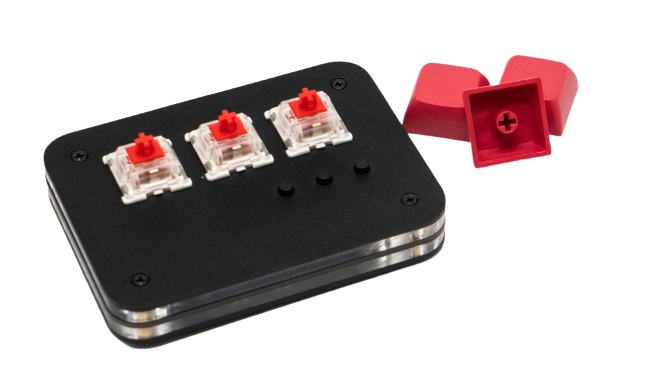
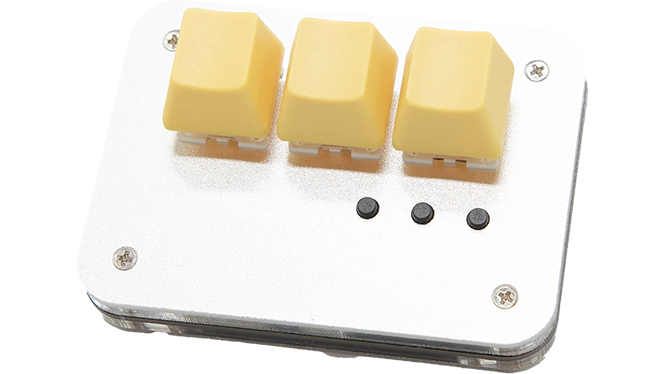
New Product (#184)
* update img

* new colours

* nvm wrong pic

diff --git a/Main/pages/index.vue b/Main/pages/index.vue
@@ -441,8 +441,8 @@ $dark-cyan: linear-gradient(#009595, #008080);
     align-items: center;
     justify-content: center;
 
-    color: #e44f3f;
-    background-color: white;
+    color: #231F20;
+    background-color: #FBBA20;
 
     padding: 0 25px;
 
